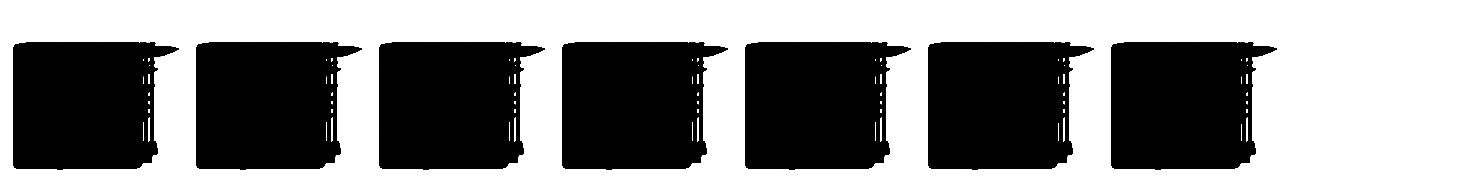
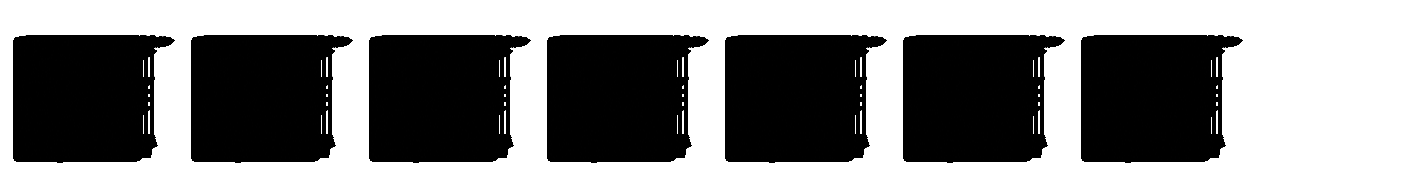
The depot's shells uneven (the user: "back row is weird", "a little too symmetrical and evenly spaced"): the back's two standing rows replaced by a lying stack on a pallet with one shell pulled out, a short standing group with more brass showing (case 0.6 of the length), a loose shell across the gap
Claude-Session: https://claude.ai/code/session_01YPbUe2yxhh4FrHKpCCj9Mp

diff --git a/tools/blender/player_buildings.py b/tools/blender/player_buildings.py
@@ -346,7 +346,7 @@ def lathe(profile, x, y, z, mats, split, steps=28, tilt=(0, 0)):
         p.material_index = 1 if p.center.z > split else 0
         p.use_smooth = True
     o = bpy.data.objects.new("lathe", me); scene.collection.objects.link(o)
-    o.location = (x, y, z); o.rotation_euler = (tilt[0], tilt[1], 0)
+    o.location = (x, y, z); o.rotation_euler = (tilt[0], tilt[1], tilt[2] if len(tilt) > 2 else 0)
     return o
 
 
@@ -398,36 +398,60 @@ def supply_depot(f):
         leaves.append((s, piv))
     # The rounds (the user, of the squat rounds before: "a little like propane gas tanks"): shells, two-part, slim (about
     # 4:1), a case rim, a brass case, a copper driving band, an olive-drab projectile with a tangent-ogive nose and a fuze.
-    # Two rows stand along the back (the rear taller); down each side they lie in the cradle, stacked, noses outward.
-    def shell(R, L, x, y, z, rot=(0, 0)):
+    def shell(R, L, x, y, z, rot=(0, 0), cf=0.4):
         prof = [(0.0, 0.0), (R * 1.08, 0.0), (R * 1.08, 0.025 * L), (R * 0.9, 0.035 * L), (R * 0.9, 0.05 * L), (R, 0.06 * L),
-                (R, 0.4 * L), (R * 1.06, 0.401 * L), (R * 1.06, 0.44 * L), (R, 0.441 * L), (R, 0.5 * L)]
-        lo, tip = 0.47 * L, 0.08 * R              # the ogive: from 0.5 L to 0.97 L, its tangent arc closing to the fuze
+                (R, cf * L), (R * 1.06, (cf + 0.001) * L), (R * 1.06, (cf + 0.04) * L), (R, (cf + 0.041) * L), (R, (cf + 0.1) * L)]
+        lo, tip = (0.87 - cf) * L, 0.08 * R        # the ogive: from (cf + 0.1) L to 0.97 L, its tangent arc closing to the fuze
         rho = (R * R + lo * lo) / (2 * R)
         for k in range(1, 9):
             t = lo * k / 8
             r = math.sqrt(max(0.0, rho * rho - t * t)) + R - rho      # (t from the base: R there, 0 at the nose; inverted first, a bulb)
-            prof.append((max(tip, r), 0.5 * L + t))
+            prof.append((max(tip, r), (cf + 0.1) * L + t))
         prof += [(tip * 0.9, 0.99 * L), (0.0, L)]
-        bands = [(0.4 * L, BRASS), (0.441 * L, BAND), (0.965 * L, SHELL), (9.0, STEEL)]
+        bands = [(cf * L, BRASS), ((cf + 0.041) * L, BAND), (0.965 * L, SHELL), (9.0, STEEL)]
         o = lathe(prof, x, y, z, [m for _, m in bands], 0.0, tilt=rot)
         for p in o.data.polygons:
             p.material_index = next(i for i, (h, _) in enumerate(bands) if p.center.z < h)
         return o
-    for k, x in enumerate((-0.76, -0.38, 0.0, 0.38, 0.76)):
-        shell(0.085, 0.72, x, 0.8, zb, rot=((k % 3 - 1) * 0.02, ((k * 7) % 5 - 2) * 0.01))
-        lpkit.torus(0.09, 0.012, x, 0.8, zb + 0.05, DARK)
-    for k, x in enumerate((-0.57, -0.19, 0.19, 0.57)):
-        shell(0.08, 0.6, x, 0.5, zb, rot=(((k + 1) % 3 - 1) * 0.02, 0))
-        lpkit.torus(0.085, 0.012, x, 0.5, zb + 0.05, DARK)
+    # (Two standing rows along the back first, 0.2.469: "back row is weird", the user, and "a little too symmetrical and
+    # evenly spaced?": dark spikes, the projectiles' paint covering the brass, the front row shading the back's. Now the
+    # back is a lying stack on a pallet at the left, a short standing group at the right with more case showing, a gap
+    # between where a load has gone; the sides uneven, one full, one half-emptied; strays out of line.)
+    # Lying: (x of its base, y, z of its axis, R, L, yaw, nose +1 east / -1 west)
+    def lying(x, y, z, R, L, nose, yaw=0.0):
+        return shell(R, L, x, y, z, rot=(0, nose * math.pi / 2, yaw))
+    # The back's stack, on a dark pallet, noses east: three below, two in their grooves above, one pulled half out.
+    bevel(B(0.66, 0.44, 0.04, -0.6, 0.72, zb, POLE), 0.006)
+    for xs in (-0.82, -0.42):
+        bevel(B(0.05, 0.42, 0.04, xs, 0.72, zb + 0.04, DARK), 0.005)
+    R = 0.07
+    for k, y in enumerate((0.87, 0.725, 0.58)):
+        lying(-0.92 + (0.06 if k == 1 else 0.0), y, zb + 0.08 + R, R, 0.6, 1, yaw=(0.04 if k == 1 else 0.0))
+    for y in (0.8, 0.655):
+        lying(-0.9, y, zb + 0.08 + R + 0.12, R, 0.58, 1)
+    # A short standing group at the back right, the case tall above the cradle (case to 0.6 of its length).
+    for k, (x, y, rx, ry) in enumerate(((0.44, 0.84, 0.02, -0.03), (0.63, 0.83, -0.01, 0.02), (0.82, 0.85, 0.03, 0.0),
+                                        (0.56, 0.63, -0.09, 0.05))):
+        shell(0.08, 0.6 if k < 3 else 0.56, x, y, zb, rot=(rx, ry), cf=0.6)
+        lpkit.torus(0.085, 0.011, x, y, zb + 0.04, DARK)
+    # One loose in the gap, lying across, noses west.
+    lying(0.24, 0.66, zb + 0.065, 0.065, 0.52, -1, yaw=0.35)
+    # The sides: saddles, the right full (five below, four above, one pushed out), the left half-emptied (a gap below,
+    # two above at one end).
     for s in (-1, 1):
-        for xs in (0.56, 0.84):     # the saddles the lying rounds rest in
+        for xs in (0.56, 0.84):
             bevel(B(0.06, 0.66, 0.05, s * xs, 0.02, zb, DARK), 0.006)
-        R = 0.055
-        for k, y in enumerate((0.28, 0.15, 0.02, -0.11, -0.24)):
-            shell(R, 0.46, s * 0.46, y, zb + 0.05 + R, rot=(0, s * math.pi / 2))
-        for k, y in enumerate((0.215, 0.085, -0.045, -0.175)):
-            shell(R, 0.44, s * 0.47, y, zb + 0.05 + R + 0.11, rot=(0, s * math.pi / 2))
+    R = 0.055
+    for k, y in enumerate((0.28, 0.15, 0.02, -0.11, -0.24)):
+        lying(0.46 + (0.05 if k == 2 else 0.0), y, zb + 0.05 + R, R, 0.46, 1, yaw=(-0.05 if k == 2 else 0.0))
+    for y in (0.215, 0.085, -0.045, -0.175):
+        lying(0.47, y, zb + 0.05 + R + 0.11, R, 0.44, 1)
+    for y in (0.28, 0.15, -0.24):
+        lying(-0.46, y, zb + 0.05 + R, R, 0.46, -1)
+    for y in (0.215, 0.085):
+        lying(-0.47, y, zb + 0.05 + R + 0.11, R, 0.44, -1, yaw=0.03)
+    # And one on the skid at the front, set down askew.
+    lying(-0.1, -0.91, zb + 0.05, 0.05, 0.42, 1, yaw=-0.12)
     # Vanilla's magazines littered about (the user: "could we show some factorio style magazines littered on the building"):
     # its firearm magazine's curved yellow body (the piercing one red), dark feed lips, a brass round showing at the top.
     def magazine(x, y, z, yaw, pitch, body):
@@ -471,12 +495,11 @@ def supply_depot(f):
         rod((-0.95, -0.62, z), (-0.95, 0.95, z), 0.02, DARK, verts=6)
         rod((-0.95, 0.95, z), (0.95, 0.95, z), 0.02, DARK, verts=6)
         rod((0.95, 0.95, z), (0.95, -0.62, z), 0.02, DARK, verts=6)
-        rod((-0.95, 0.65, z), (0.95, 0.65, z), 0.016, DARK, verts=6)
-    for (x, y) in ((-0.95, -0.62), (-0.95, 0.95), (0.95, 0.95), (0.95, -0.62), (-0.95, 0.3), (0.95, 0.3), (0.0, 0.95), (-0.95, 0.65), (0.95, 0.65)):
+    for (x, y) in ((-0.95, -0.62), (-0.95, 0.95), (0.95, 0.95), (0.95, -0.62), (-0.95, 0.3), (0.95, 0.3), (0.1, 0.95)):
         rod((x, y, zb), (x, y, zb + 0.18), 0.024, DARK, verts=6)
     # Two ammunition crates at the front corners, strapped, a lid each; the right one a second, smaller, on it.
-    for (x, y, yaw, w, d, h, z) in ((-0.72, -0.74, 0.12, 0.38, 0.28, 0.2, zb), (0.7, -0.74, -0.08, 0.4, 0.3, 0.2, zb),
-                                    (0.68, -0.72, 0.18, 0.28, 0.2, 0.14, zb + 0.2)):
+    for (x, y, yaw, w, d, h, z) in ((-0.73, -0.72, 0.22, 0.38, 0.28, 0.2, zb), (0.7, -0.76, -0.14, 0.4, 0.3, 0.2, zb),
+                                    (0.66, -0.73, 0.32, 0.28, 0.2, 0.14, zb + 0.2)):
         bevel(B(w, d, h, x, y, z, OLIVE, rot=yaw), 0.015)
         B(w + 0.01, d + 0.01, 0.025, x, y, z + h - 0.025, DARK, rot=yaw, bevel=0.0)
         for t in (-0.3, 0.3):

diff --git a/DESIGN.md b/DESIGN.md
@@ -1095,7 +1095,7 @@ Built (first pass) in `player.lua`, `scripts/command.lua`; the rest of this sect
   - **Ammunition, stage 2: the supply depot, and showing it** (0.2.465; the user: "Yes we definitely need to continue that
     thread", "could use a UI overlay on the barracks and depot showing healing/rearming range? perhaps on hover?").
     `lp-supply-depot` (player.lua): vanilla's requester chest re-tinted (until 0.2.469: now its own 2x2 model, the shell
-    rack, tools/blender/player_buildings.py supply_depot: two-part shells (brass case, copper band, olive projectile, pointed nose; nine standing at the back, nine lying down each side, noses out: upright pale rounds read as "propane gas tanks", the user) and seven of vanilla's magazines littered on it (the user's idea), round an olive magazine
+    rack, tools/blender/player_buildings.py supply_depot: two-part shells (brass case, copper band, olive projectile, pointed nose; lying stacks and a short standing group, uneven and half-emptied in places: upright pale rounds read as "propane gas tanks", an even parade "too symmetrical", the user) and seven of vanilla's magazines littered on it (the user's idea), round an olive magazine
     whose robot hatch opens over vanilla's seven frames, a hazard step and ammunition crates at the front; chosen from four
     clay candidates; 2x2 on the user's word, "1x1 unnecessarily tight"; shadow near-solid 1.00, vanilla's requester 0.90;
     generic 2x2 remnants), 32 slots, 500 health, made from a requester
